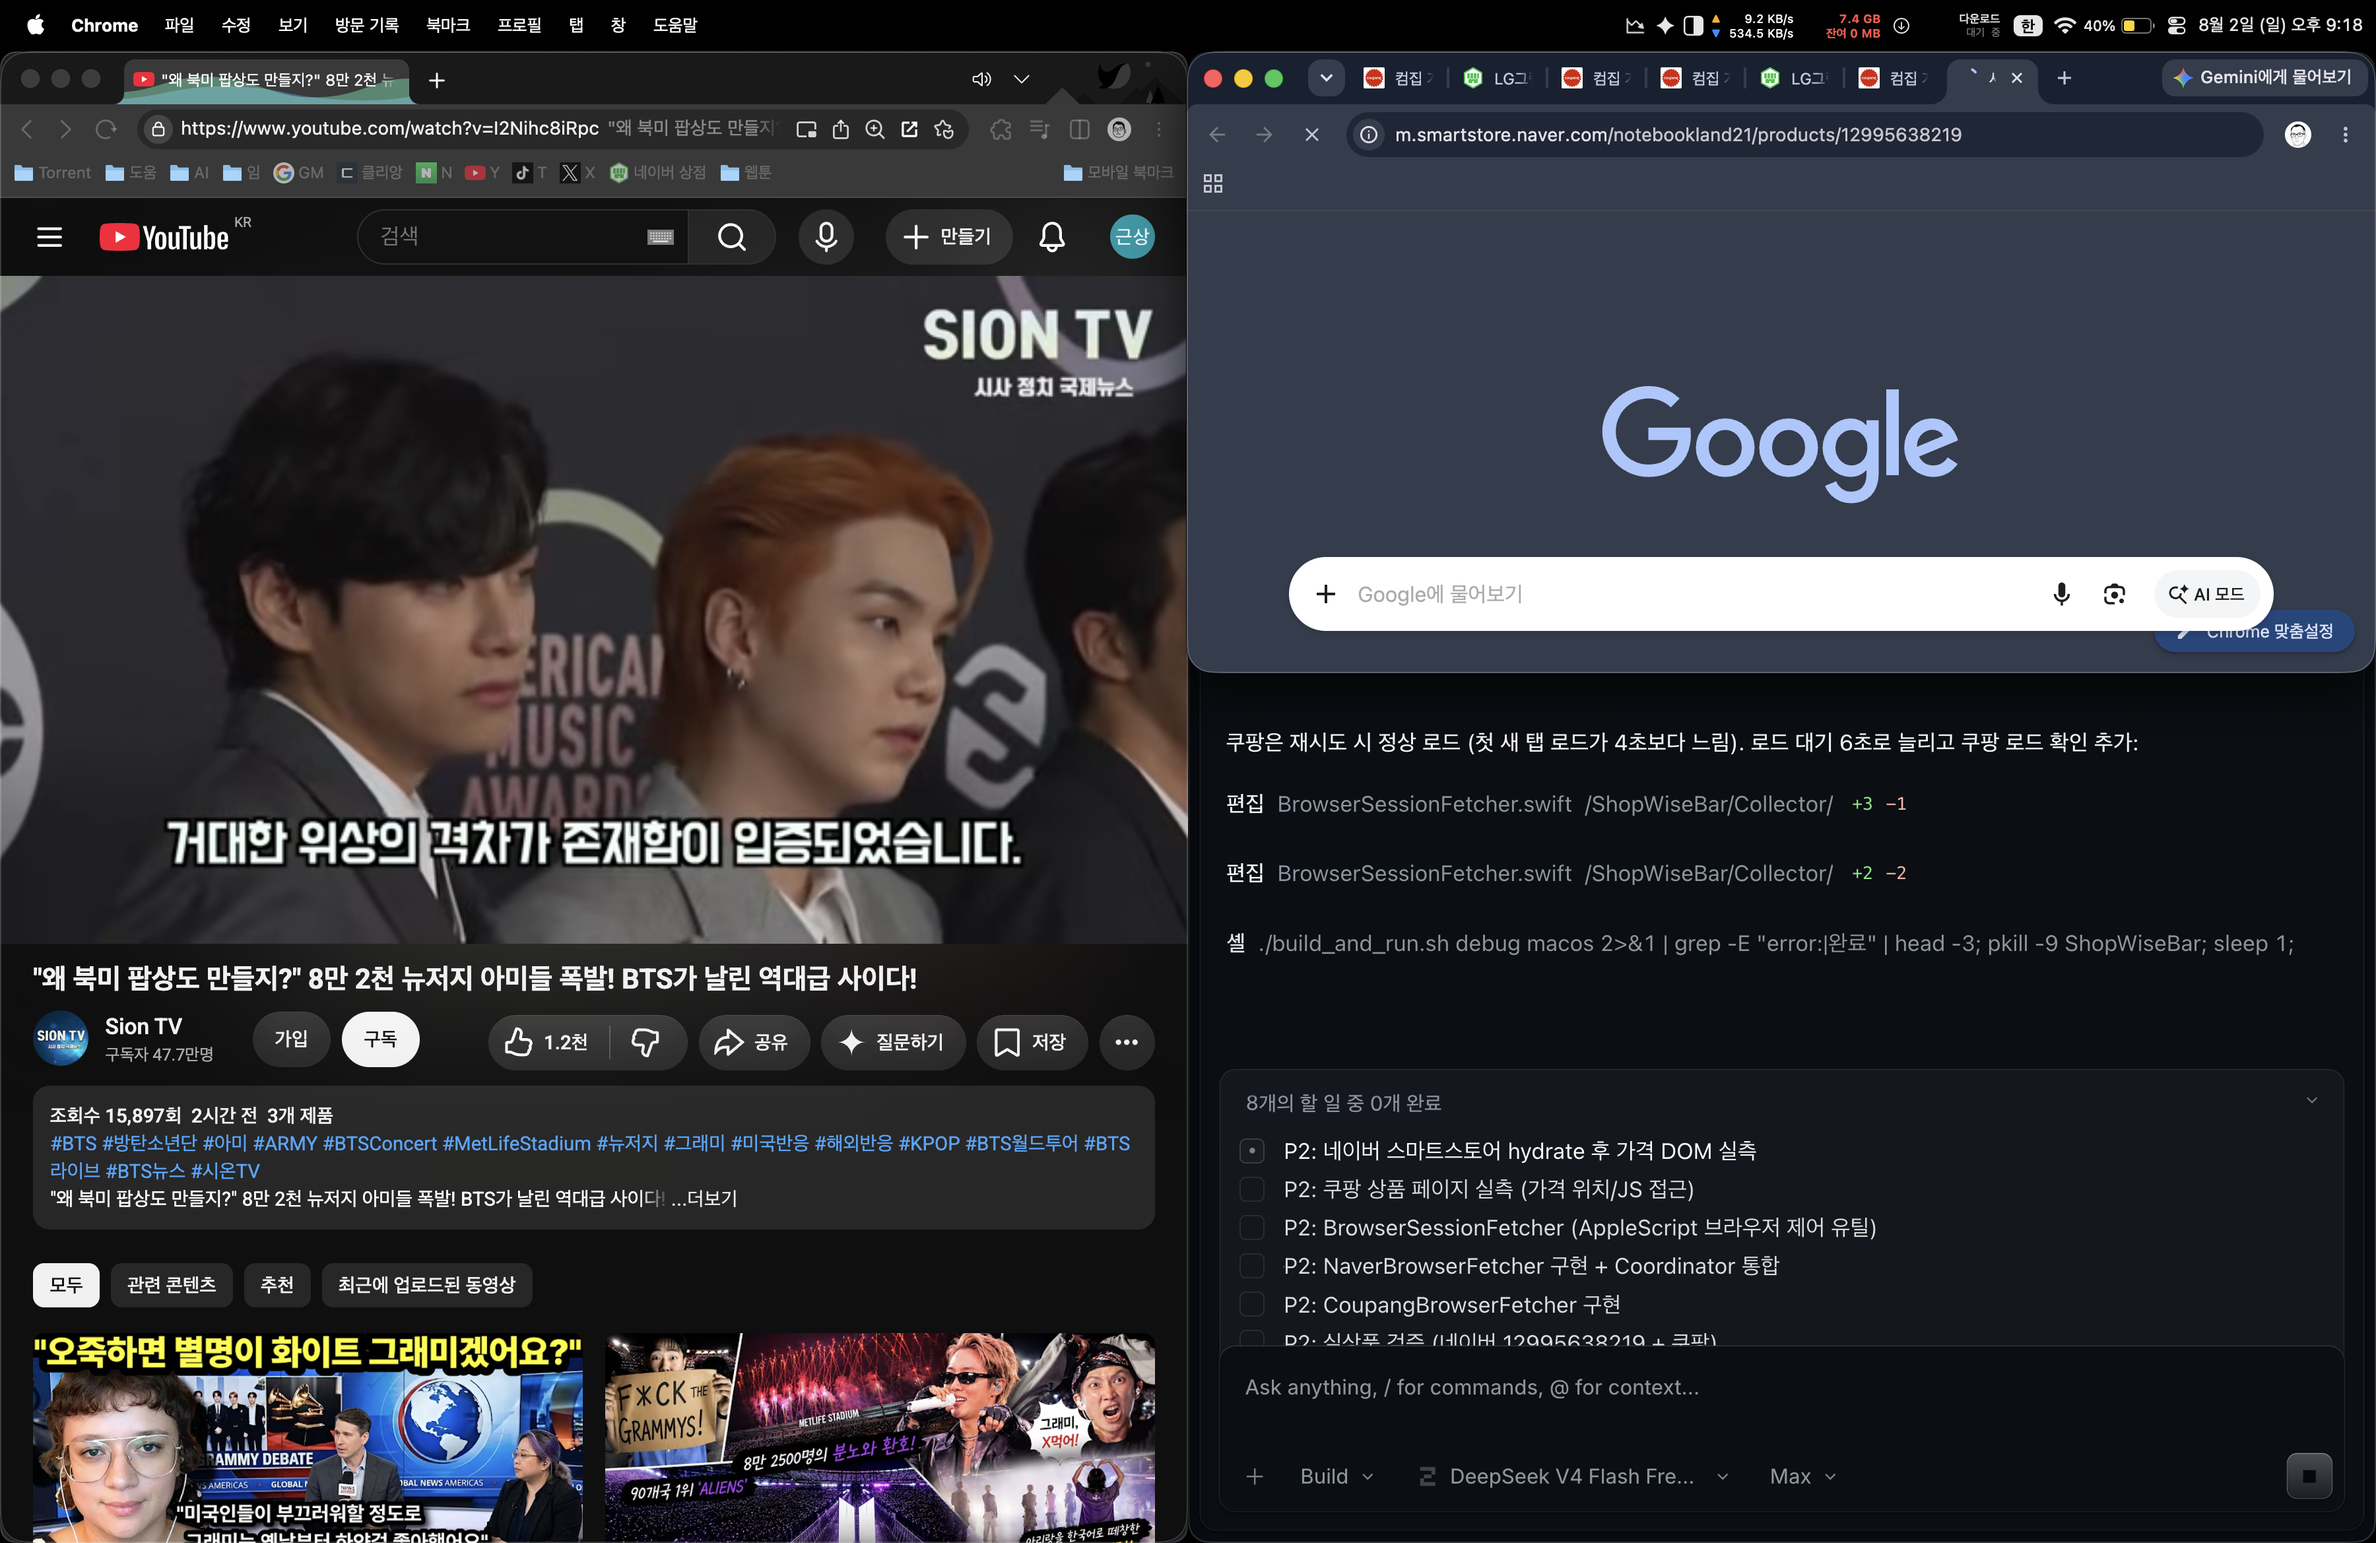
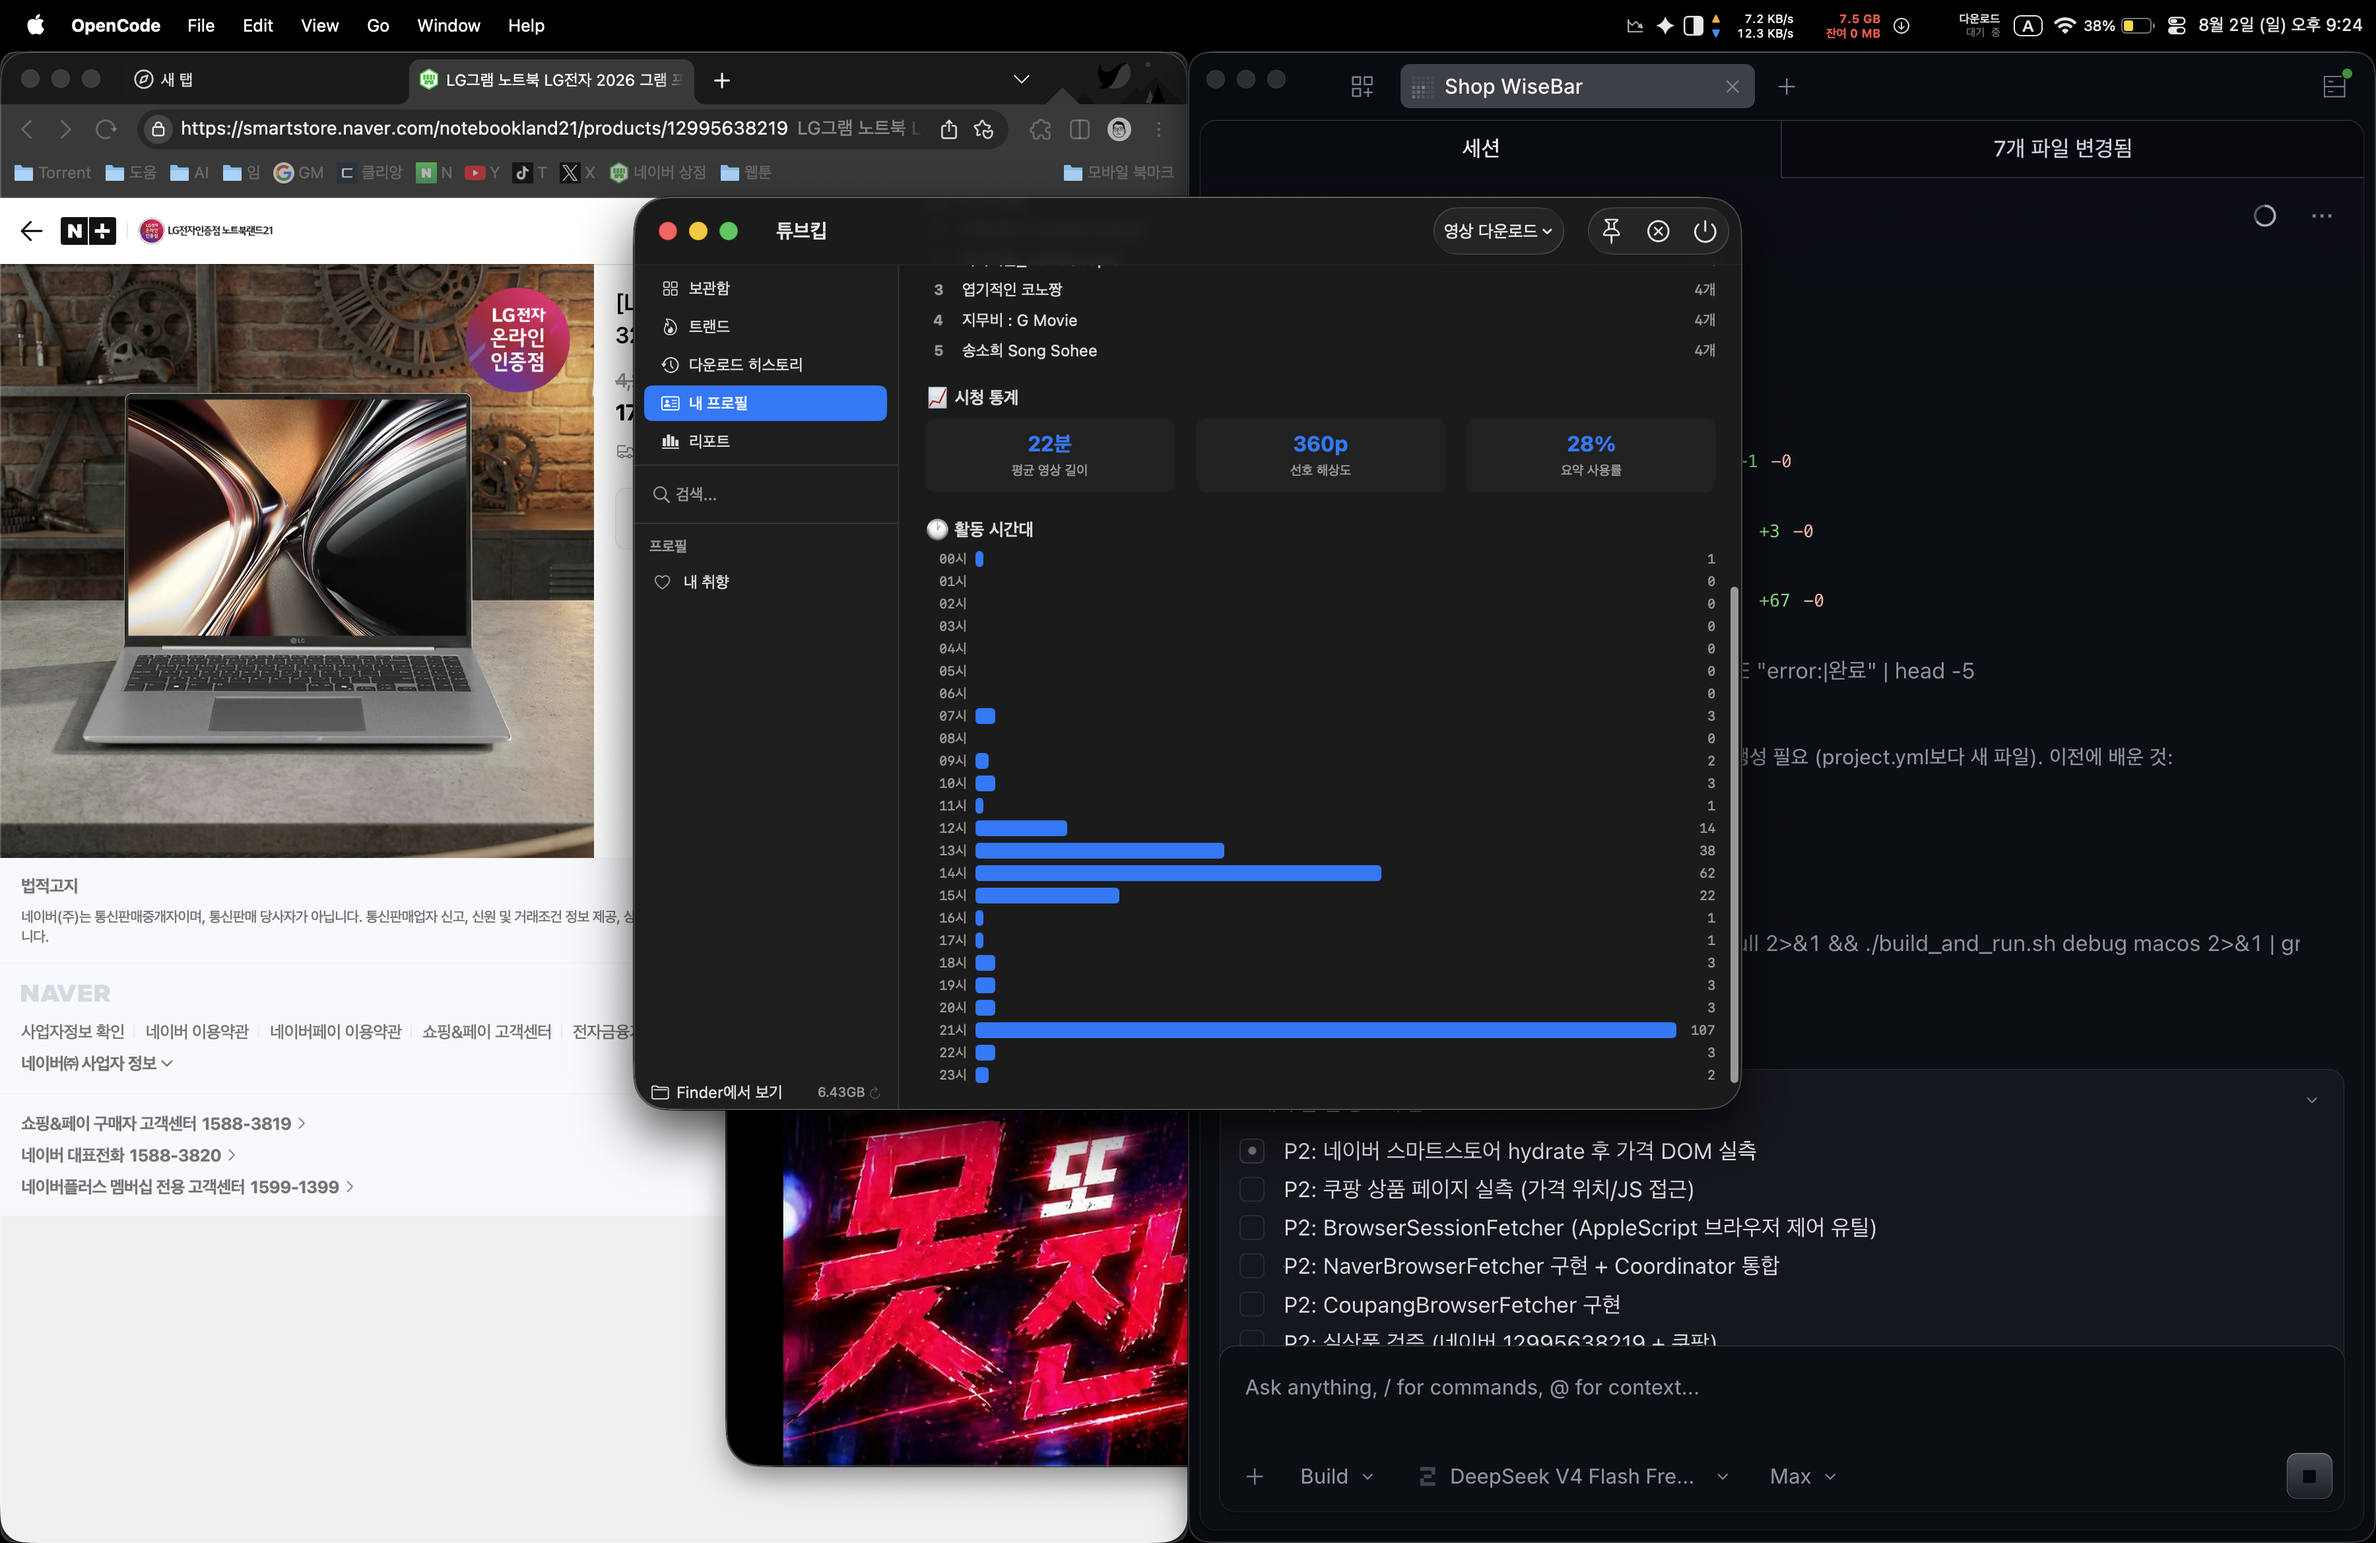
feat(macos): 브라우저 모니터링 — 상품 페이지 감지 + 추적 제안 배너 [T-20/21]

diff --git a/ShopWiseBar/Collector/BrowserMonitor.swift b/ShopWiseBar/Collector/BrowserMonitor.swift
@@ -1,0 +1,101 @@
+// BrowserMonitor.swift — 브라우저 상품 페이지 감지 (T-20/21)
+// Chrome/Whale 활성 탭 URL을 주기 폴링 → 지원 상품 페이지면 추적 제안
+// 로그는 상태 변경(감지/해제) 시에만 — AGENTS.md 11.2 준수 (폴링 로깅 금지)
+// PLATFORM: macos
+import Foundation
+
+@MainActor
+final class BrowserMonitor {
+    static let shared = BrowserMonitor()
+
+    private let pollInterval: TimeInterval = 3
+    private var task: Task<Void, Never>?
+    private var lastURL: String?
+
+    private init() {}
+
+    func start() {
+        guard task == nil else { return }
+        task = Task { [weak self] in
+            while !Task.isCancelled {
+                guard let self else { return }
+                await self.pollOnce()
+                try? await Task.sleep(nanoseconds: UInt64(self.pollInterval * 1_000_000_000))
+            }
+        }
+    }
+
+    func stop() {
+        task?.cancel()
+        task = nil
+    }
+
+    // MARK: - 폴링
+
+    private func pollOnce() async {
+        let browser = SettingsStore.shared.browserName
+        guard browser != "Safari" else { return } // Safari는 AppleScript JS 설정 필요 — 추후 지원
+
+        let url = await activeTabURL(browser: browser)
+        guard let url else { return }
+        guard url != lastURL else { return }
+
+        lastURL = url
+        if MallParser.parse(url) != nil {
+            PopoverState.shared.suggestedURL = url
+            DebugLogger.shared.push(
+                level: .INFO,
+                category: "MONITOR",
+                message: "상품 페이지 감지",
+                meta: ["browser": browser, "url": url]
+            )
+        } else {
+            PopoverState.shared.clearSuggestion()
+        }
+    }
+
+    private func activeTabURL(browser: String) async -> String? {
+        let script = """
+        tell application "\(browser)"
+            try
+                set u to URL of active tab of front window
+                return u
+            on error
+                return ""
+            end try
+        end tell
+        """
+        do {
+            let (output, _) = try await runAppleScript(script)
+            let trimmed = output.trimmingCharacters(in: .whitespacesAndNewlines)
+            return trimmed.isEmpty ? nil : trimmed
+        } catch {
+            return nil
+        }
+    }
+
+    private func runAppleScript(_ script: String) async throws -> (String, String) {
+        try await withCheckedThrowingContinuation { (cont: CheckedContinuation<(String, String), Error>) in
+            Task.detached {
+                let process = Process()
+                process.executableURL = URL(fileURLWithPath: "/usr/bin/osascript")
+                process.arguments = ["-e", script]
+                let outPipe = Pipe()
+                let errPipe = Pipe()
+                process.standardOutput = outPipe
+                process.standardError = errPipe
+                do {
+                    try process.run()
+                    process.waitUntilExit()
+                    let outData = outPipe.fileHandleForReading.readDataToEndOfFile()
+                    let errData = errPipe.fileHandleForReading.readDataToEndOfFile()
+                    let out = String(data: outData, encoding: .utf8) ?? ""
+                    let err = String(data: errData, encoding: .utf8) ?? ""
+                    cont.resume(returning: (out, err))
+                } catch {
+                    cont.resume(throwing: error)
+                }
+            }
+        }
+    }
+}

diff --git a/ShopWiseBar/Views/PopoverRootView.swift b/ShopWiseBar/Views/PopoverRootView.swift
@@ -17,6 +17,9 @@ struct PopoverRootView: View {
     var body: some View {
         VStack(spacing: 10) {
             header
+            if let suggested = popoverState.suggestedURL {
+                suggestionBanner(url: suggested)
+            }
             if store.products.isEmpty {
                 emptyState
             } else {
@@ -129,6 +132,73 @@ struct PopoverRootView: View {
                 .frame(maxWidth: 260)
         }
         .frame(maxWidth: .infinity, maxHeight: .infinity)
+    }
+
+    // MARK: - 브라우저 감지 제안 (T-21)
+
+    @ViewBuilder
+    private func suggestionBanner(url: String) -> some View {
+        VStack(alignment: .leading, spacing: 6) {
+            HStack {
+                Image(systemName: "sparkles")
+                    .foregroundStyle(Color.accentColor)
+                Text("브라우저에서 상품 페이지를 보고 있어요")
+                    .font(.caption).bold()
+                Spacer()
+            }
+            if let parsed = MallParser.parse(url) {
+                Text("\(parsed.mall.displayName) 상품을 추적할까요?")
+                    .font(.caption2)
+                    .foregroundStyle(.secondary)
+                HStack(spacing: 8) {
+                    Button {
+                        Task { await addSuggested(url: url) }
+                    } label: {
+                        if popoverState.isAddingSuggested {
+                            ProgressView().controlSize(.mini)
+                        } else {
+                            Text("추적 시작")
+                        }
+                    }
+                    .buttonStyle(.borderedProminent)
+                    .controlSize(.small)
+                    .disabled(popoverState.isAddingSuggested)
+                    Button("닫기") { popoverState.clearSuggestion() }
+                        .buttonStyle(.borderless)
+                        .controlSize(.small)
+                }
+            } else {
+                Text("지원하는 상품 페이지가 아닙니다")
+                    .font(.caption2)
+                    .foregroundStyle(.secondary)
+            }
+        }
+        .padding(10)
+        .frame(maxWidth: .infinity, alignment: .leading)
+        .background(Color.accentColor.opacity(0.08), in: RoundedRectangle(cornerRadius: 8))
+    }
+
+    private func addSuggested(url: String) async {
+        popoverState.isAddingSuggested = true
+        defer { popoverState.isAddingSuggested = false }
+        let result = await PriceFetchCoordinator.shared.addFromURL(url)
+        switch result {
+        case .success(let product):
+            popoverState.clearSuggestion()
+            DebugLogger.shared.push(
+                level: .ACTION,
+                category: "ADD",
+                message: "추적 제안 → 등록 완료",
+                meta: ["productID": product.productID]
+            )
+        case .failure(let error):
+            DebugLogger.shared.push(
+                level: .WARN,
+                category: "ADD",
+                message: "추적 제안 등록 실패",
+                meta: ["code": error.code]
+            )
+        }
     }
 
     // MARK: - 액션

diff --git a/ShopWiseBar/Collector/BrowserSessionFetcher.swift b/ShopWiseBar/Collector/BrowserSessionFetcher.swift
@@ -104,13 +104,16 @@ final class BrowserSessionFetcher {
 
         let (output, error) = try await runAppleScript(lines.joined(separator: "\n"))
         if !error.isEmpty {
+            // 웨일(Whale)은 AppleScript JS 실행 미지원 (2026-08-02 실측: 설정 키 미지원)
+            let isWhaleDisabled = error.contains("AppleScript를 통한 자바스크립트")
+            let code = isWhaleDisabled ? "E-MAC-BROWSER-3002" : "E-MAC-BROWSER-3001"
             DebugLogger.shared.push(
                 level: .WARN,
                 category: "BROWSER",
                 message: "AppleScript 오류",
-                meta: ["code": "E-MAC-BROWSER-3001", "error": String(error.prefix(200))]
+                meta: ["code": code, "error": String(error.prefix(200))]
             )
-            throw AppError.browserUnavailable()
+            throw AppError(code: code, debugMessage: isWhaleDisabled ? "웨일은 AppleScript JS 실행 미지원 — Google Chrome 선택 필요" : "브라우저 자동화 실패")
         }
         return output.trimmingCharacters(in: .whitespacesAndNewlines)
     }

diff --git a/ShopWiseBar/Views/PopoverState.swift b/ShopWiseBar/Views/PopoverState.swift
@@ -9,9 +9,19 @@ final class PopoverState: ObservableObject {
     /// "지금 상품 추가…" 메뉴 선택 시 추가 필드 포커스 요청
     @Published var focusAddField = false
 
+    /// BrowserMonitor가 감지한 추적 제안 URL (상품 페이지 방문 중)
+    @Published var suggestedURL: String?
+
+    /// 제안 URL을 "추적" 버튼에 등록한 상품 — 등록 중 UI 표시용
+    @Published var isAddingSuggested = false
+
     private init() {}
 
     func requestAddFocus() {
         focusAddField = true
+    }
+
+    func clearSuggestion() {
+        suggestedURL = nil
     }
 }

diff --git a/ShopWiseBar/App/ShopWiseBarApp.swift b/ShopWiseBar/App/ShopWiseBarApp.swift
@@ -19,6 +19,7 @@ final class AppDelegate: NSObject, NSApplicationDelegate {
         MenuBarController.shared.start()
         NotificationEngine.shared.requestAuthorization()
         RefreshScheduler.shared.start()
+        BrowserMonitor.shared.start()
         DebugLogger.shared.push(
             level: .SYSTEM,
             category: "APP",
